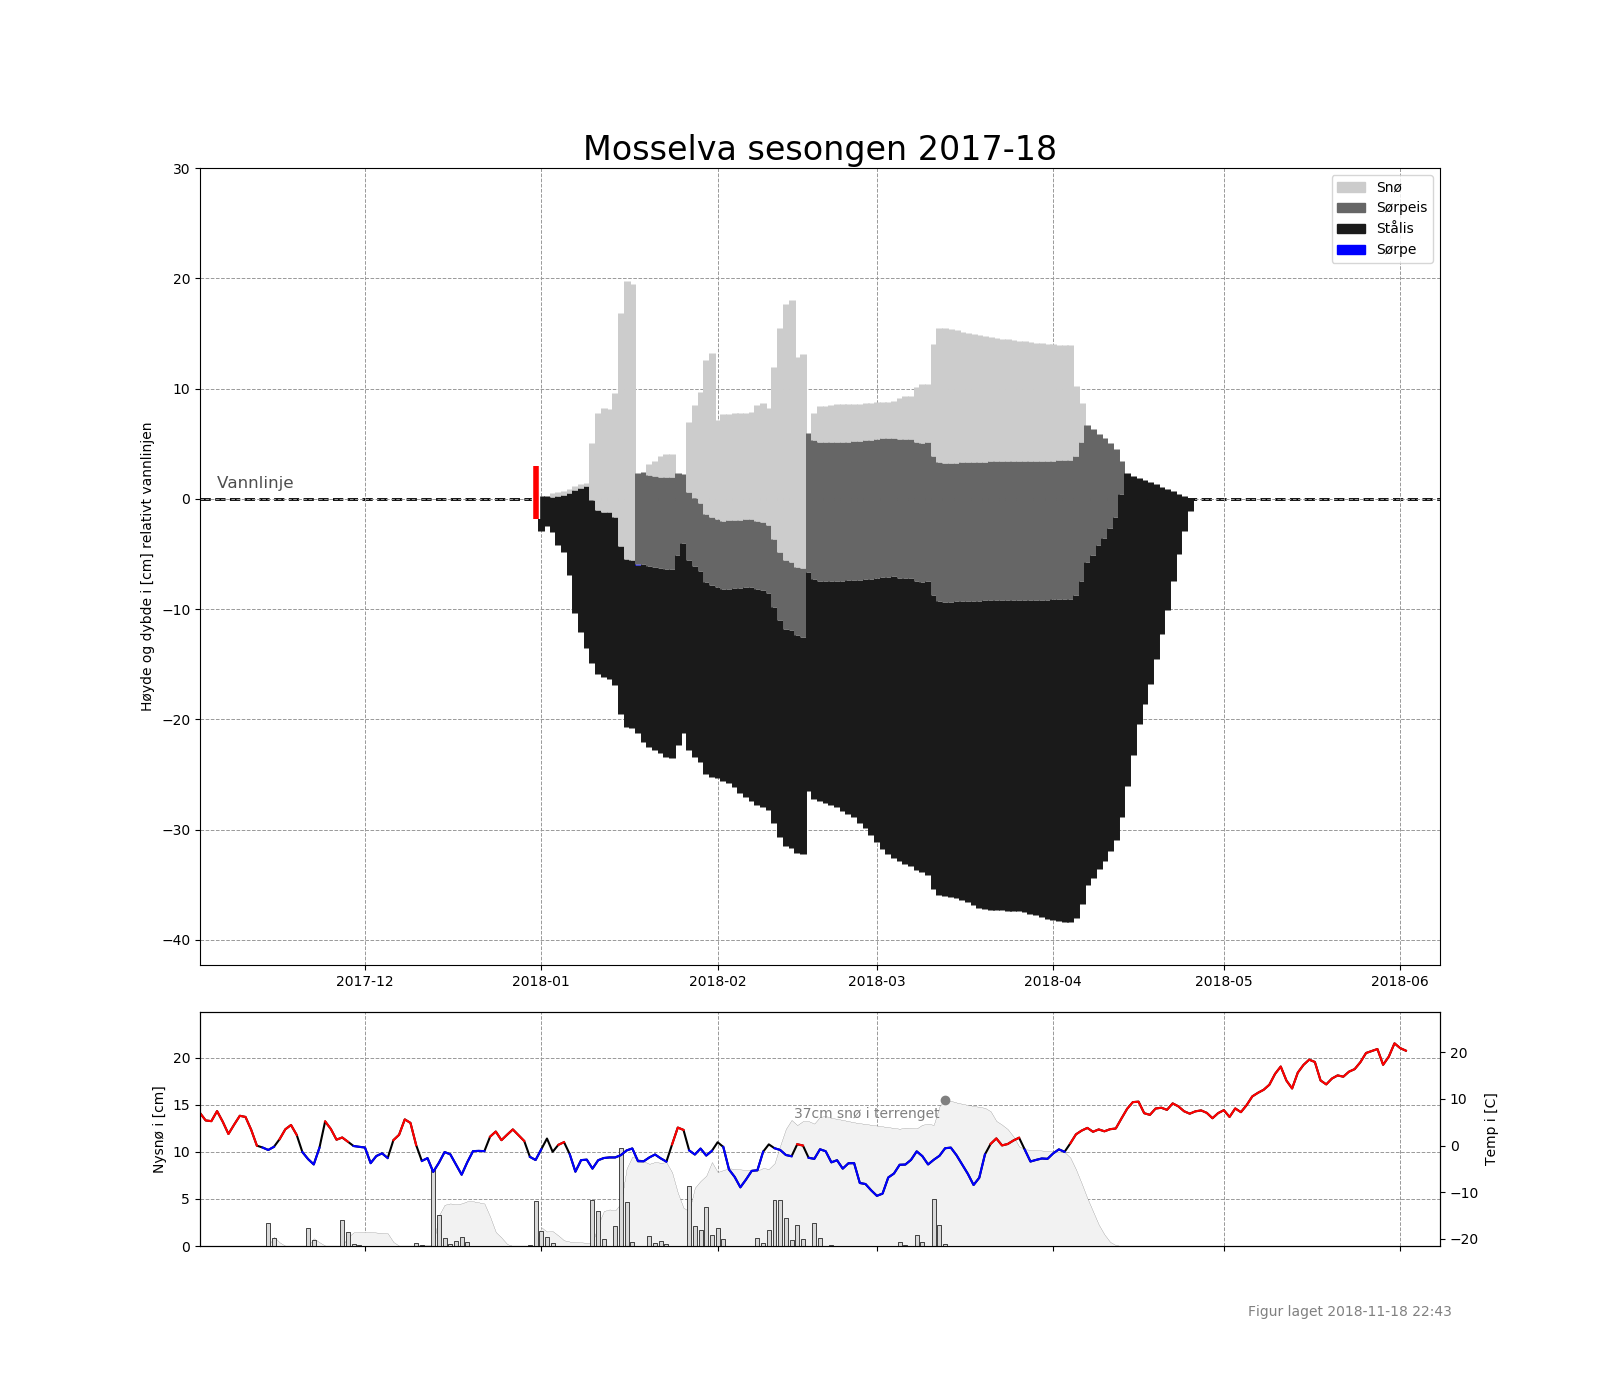
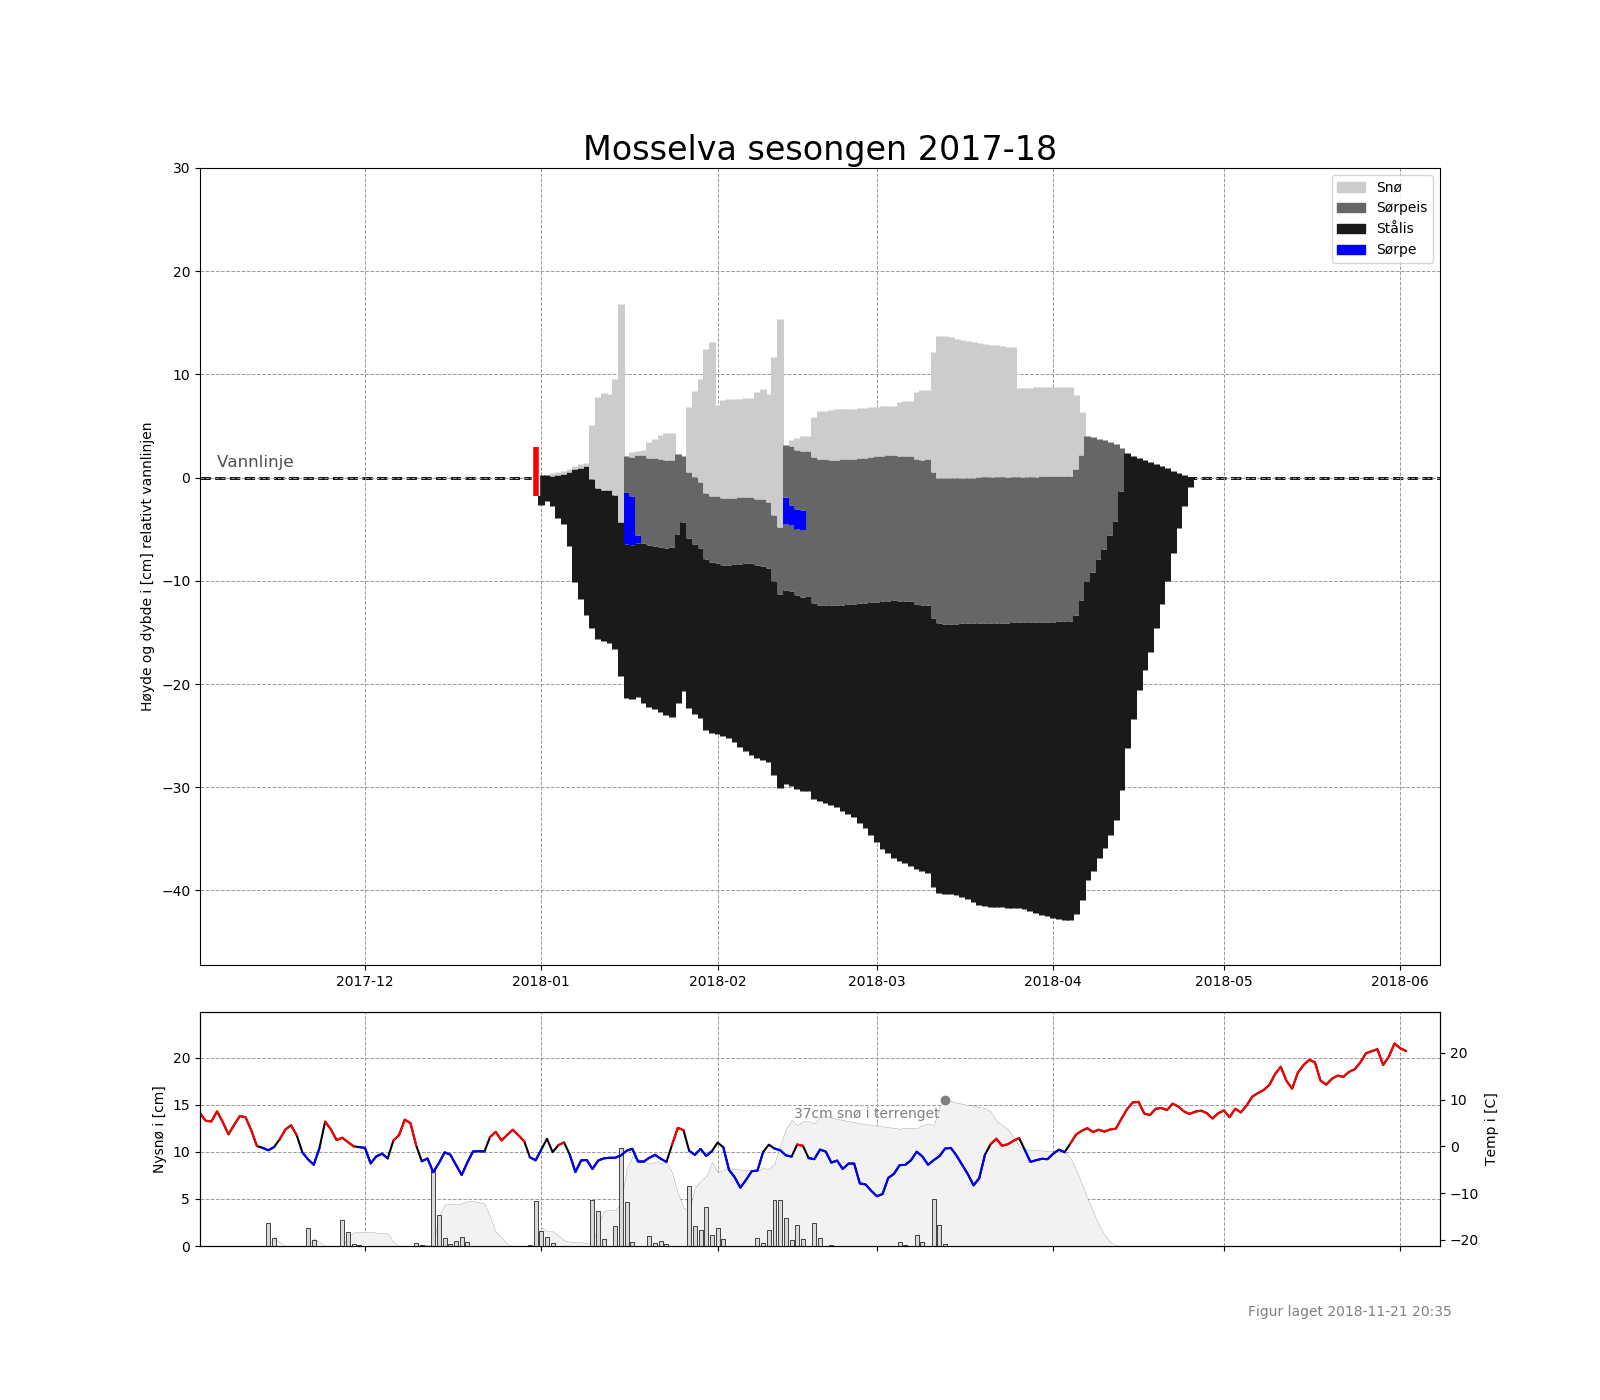
adjust temperature from grid elevation to lake elevation

diff --git a/utilities/getgts.py b/utilities/getgts.py
@@ -3,6 +3,7 @@ import datetime as dt
 import requests as rq
 from icemodelling import weatherelement as we
 from utilities import makeplots as mplot
+from utilities import makelogs as ml
 
 __author__ = 'ragnarekker'
 
@@ -45,39 +46,44 @@ def getgts(utm33x, utm33y, element_id, from_date, to_date, timeseries_type=0, pa
     responds = rq.get(url)
 
     full_data = responds.json()
-    data = full_data['Data']
+    if 'Error' in full_data:
+        ml.log_and_print("[error] getgts.py -> getgts: {0}".format(full_data))
+        return []
 
-    weather_element_list = []
-    date = dt.datetime.strptime(full_data['StartDate'], '%d.%m.%Y %H:%M:%S')
+    else:
+        data = full_data['Data']
 
-    # the assigned NoDataValue if one data element is missing.
-    no_data_value = int(full_data['NoDataValue'])
+        weather_element_list = []
+        date = dt.datetime.strptime(full_data['StartDate'], '%d.%m.%Y %H:%M:%S')
 
-    for d in data:
-        value = float(d)
-        if value == no_data_value:
-            value = None
-        weather_element = we.WeatherElement('UTM33 X{0} Y{1}'.format(utm33x, utm33y), date, element_id, value)
-        weather_element.Metadata['DataSource'] = 'GTS'
-        weather_element.Metadata['TimeResolution'] = full_data['TimeResolution']
-        weather_element.Metadata['FullName'] = full_data['FullName']
-        weather_element.Metadata['WeatherDataAltitude'] = full_data['Altitude']
-        weather_element_list.append(weather_element)
-        date += dt.timedelta(minutes=full_data['TimeResolution'])
+        # the assigned NoDataValue if one data element is missing.
+        no_data_value = int(full_data['NoDataValue'])
 
-    if patch_missing_values:
-        weather_element_list = we.patch_novalue_in_weather_element_list(weather_element_list)
+        for d in data:
+            value = float(d)
+            if value == no_data_value:
+                value = None
+            weather_element = we.WeatherElement('UTM33 X{0} Y{1}'.format(utm33x, utm33y), date, element_id, value)
+            weather_element.Metadata['DataSource'] = 'GTS'
+            weather_element.Metadata['TimeResolution'] = full_data['TimeResolution']
+            weather_element.Metadata['FullName'] = full_data['FullName']
+            weather_element.Metadata['WeatherDataAltitude'] = full_data['Altitude']
+            weather_element_list.append(weather_element)
+            date += dt.timedelta(minutes=full_data['TimeResolution'])
 
-    if element_id == 'fsw' or element_id == 'sd' or element_id == 'sdfsw':
-        weather_element_list = we.meter_from_centimeter(weather_element_list)  # convert for [cm] til [m]
+        if patch_missing_values:
+            weather_element_list = we.patch_novalue_in_weather_element_list(weather_element_list)
 
-    if timeseries_type == 0:
-        weather_element_list = we.make_daily_average(weather_element_list)
+        if element_id == 'fsw' or element_id == 'sd' or element_id == 'sdfsw':
+            weather_element_list = we.meter_from_centimeter(weather_element_list)  # convert for [cm] til [m]
 
-        # fist element after doing daily avarage represents the day before the requested time period
-        del weather_element_list[0]
+        if timeseries_type == 0:
+            weather_element_list = we.make_daily_average(weather_element_list)
 
-    return weather_element_list
+            # fist element after doing daily avarage represents the day before the requested time period
+            del weather_element_list[0]
+
+        return weather_element_list
 
 
 if __name__ == "__main__":

diff --git a/icemodellingscripts/calculateandplot.py b/icemodellingscripts/calculateandplot.py
@@ -300,11 +300,11 @@ def _plot_season(location_id, from_date, to_date, observed_ice, make_plots=True,
     gridSnoTot = gts.getgts(x, y, 'sd', from_date, to_date)
 
     # adjust grid temperature (at grid elevation) to lake elevation.
-    # lake_altitude = None
-    # gridTempNewElevation = we.adjust_temperature_to_new_altitude(gridTemp, lake_altitude)
+    lake_altitude = gm.get_masl_from_utm33(x, y)
+    gridTempNewElevation = we.adjust_temperature_to_new_altitude(gridTemp, lake_altitude)
 
     # strip metadata
-    temp, date = we.strip_metadata(gridTemp, get_date_times=True)
+    temp, date = we.strip_metadata(gridTempNewElevation, get_date_times=True)
     sno = we.strip_metadata(gridSno, False)
     snotot = we.strip_metadata(gridSnoTot, False)
     cc = dp.clouds_from_precipitation(sno)
@@ -383,7 +383,7 @@ def plot_season_for_all_regobs_locations(year='2018-19', calculate_new=False, ge
                 all_observed[location_id] = observed
             except:
                 error_msg = sys.exc_info()[0]
-                ml.log_and_print("calculateandplot.py -> plot_season_for_all_regobs_locations: Error making plot for {}".format(error_msg, location_id))
+                ml.log_and_print("[error] calculateandplot.py -> plot_season_for_all_regobs_locations: Error making plot for {}".format(error_msg, location_id))
 
             # Make the json with metadata needed for iskart.no. Add only if the plot was made and thus file exists.
             if os.path.isfile(se.sesong_plots_folder + plot_filename):
@@ -410,7 +410,7 @@ def plot_season_for_all_regobs_locations(year='2018-19', calculate_new=False, ge
                 f.write(json_string)
         except:
             error_msg = sys.exc_info()[0]
-            ml.log_and_print("calculateandplot.py -> plot_season_for_all_regobs_locations: Cant write json. {}".format(error_msg))
+            ml.log_and_print("[error]calculateandplot.py -> plot_season_for_all_regobs_locations: Cant write json. {}".format(error_msg))
 
     else:
         [all_calculated, all_observed] = mp.unpickle_anything(pickle_file_name_and_path)
@@ -419,7 +419,7 @@ def plot_season_for_all_regobs_locations(year='2018-19', calculate_new=False, ge
        pts.scatter_calculated_vs_observed(all_calculated, all_observed, year)
     except:
        error_msg = sys.exc_info()[0]
-       ml.log_and_print("calculateandplot.py -> plot_season_for_all_regobs_locations: {}. Could not plot scatter {}.".format(error_msg, year))
+       ml.log_and_print("[error] calculateandplot.py -> plot_season_for_all_regobs_locations: {}. Could not plot scatter {}.".format(error_msg, year))
 
 
 def calculate_and_plot9d_regid(regid, plot_folder=se.plot_folder, observed_ice=None):
@@ -602,6 +602,6 @@ if __name__ == "__main__":
     # calculate_and_plot9d_regid(130988)
     # calculate_and_plot9d_regid(132133)
     # calculate_and_plot9d_regid(133488)
-    # calculate_and_plot9d_regid(131705)        # has newsnow on first day and there is a frame
+    # calculate_and_plot9d_regid(131705)        # has news now on first day and there is a frame
 
     pass

diff --git a/utilities/getmisc.py b/utilities/getmisc.py
@@ -3,6 +3,8 @@
 import datetime as dt
 import numpy as np
 from utilities import makelogs as ml
+import requests as requests
+
 
 __author__ = 'raek'
 
@@ -121,6 +123,33 @@ def get_dates_from_year(year, date_format='yyyy-mm-dd'):
         return 'Date format not supported.'
 
 
+def get_masl_from_utm33(x, y):
+    """Returns the altitude of a given UTM33N coordinate.
+
+    Method uses an NVE map service which covers only Norway. If NoData method returns None
+
+    :param x:       [int] east
+    :param y:       [int] north
+    :return masl:   [int] meters above sea level
+    """
+
+    url = 'https://gis3.nve.no/arcgis/rest/services/ImageService/SK_DTM20_NSF/ImageServer/identify' \
+          '?geometry={0},{1}&geometryType=esriGeometryPoint&inSR=32633&spatialRel=esriSpatialRelIntersects' \
+          '&relationParam=&objectIds=&where=&time=&returnCountOnly=false&returnIdsOnly=false&returnGeometry=false' \
+          '&maxAllowableOffset=&outSR=&outFields=*&f=pjson'.format(x, y)
+
+    data = requests.get(url).json()
+    masl = data['value']
+
+    if 'NoData' in masl:
+        ml.log_and_print("[warning] getmisc.py -> get_masl_from_utm33: No data elevation data for x:{} y:{}".format(x,y))
+        return None
+    else:
+        return int(masl)
+
+
 if __name__ == "__main__":
+
+    # height = get_masl_from_utm33(120613, 6834932)
 
     pass

diff --git a/icemodelling/weatherelement.py b/icemodelling/weatherelement.py
@@ -207,20 +207,21 @@ def adjust_temperature_to_new_altitude(weather_element_list, new_altitude):
     """
 
     if new_altitude is None:
-        ml.log_and_print("weatherelement.py -> adjust_temperature_to_new_altitude: new_element=None and no adjustments made.")
-
+        ml.log_and_print("[warning] weatherelement.py -> adjust_temperature_to_new_altitude: new_element=None and no adjustments made.")
         return weather_element_list
 
     else:
         original_altitude = weather_element_list[0].Metadata['WeatherDataAltitude']
+        temp_delta = (new_altitude - original_altitude) * const.laps_rate
 
         for we in weather_element_list:
             original_value = we.Value
-            we.Value -= (new_altitude - original_altitude)*const.laps_rate
+            we.Value -= temp_delta
             we.Metadata['WeatherDataAltitude'] = new_altitude
             we.Metadata['OriginalAltitude'] = original_altitude
             we.Metadata['AltitudeAdjustment'] = 'Adjusting elevation by {0} m, thus also temp from {1}C to {2}C.'.format(new_altitude-original_altitude, original_value, we.Value)
 
+        ml.log_and_print("[info] weatherelement.py -> adjust_temperature_to_new_altitude: old:{0}masl and new:{1}masl and tempdelta:{2}C".format(original_altitude, new_altitude, temp_delta))
         return weather_element_list
 
 

diff --git a/icemodellingscripts/plotlakes.py b/icemodellingscripts/plotlakes.py
@@ -147,9 +147,9 @@ def run_semsvann(from_date, to_date, make_plots=True, plot_folder=se.plot_folder
         gridSnoTot = gts.getgts(x, y, 'sd', from_date, to_date)
 
         # Grid altitude and lake at same elevations.
-        # gridTempNewElevation = we.adjust_temperature_to_new_altitude(gridTemp, altitude)
+        gridTempNewElevation = we.adjust_temperature_to_new_altitude(gridTemp, altitude)
 
-        temp, date = we.strip_metadata(gridTemp, get_date_times=True)
+        temp, date = we.strip_metadata(gridTempNewElevation, get_date_times=True)
         sno = we.strip_metadata(gridSno)
         sno_tot = we.strip_metadata(gridSnoTot)
         cc = dp.clouds_from_precipitation(sno)
